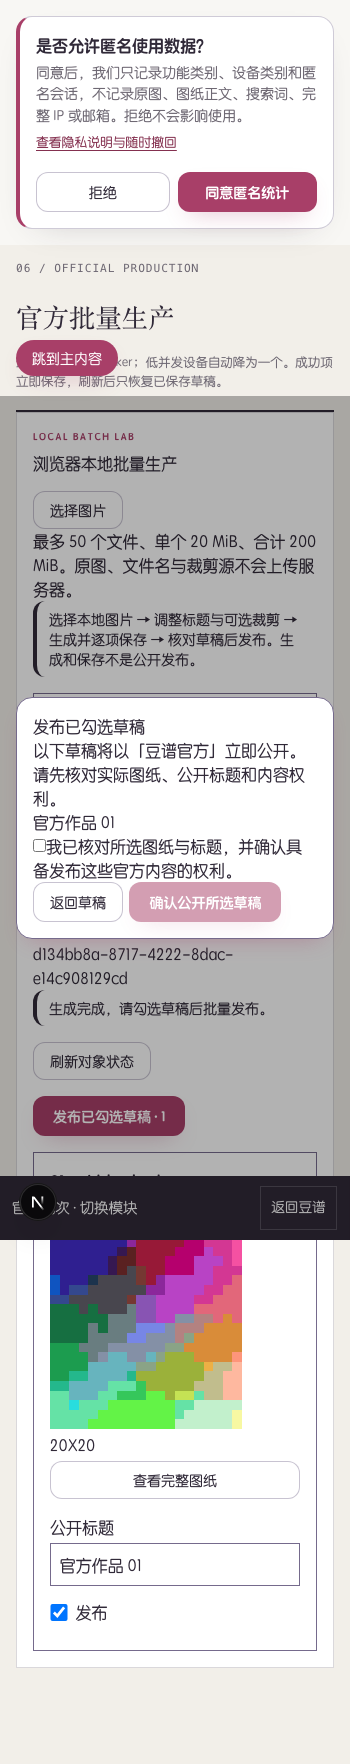
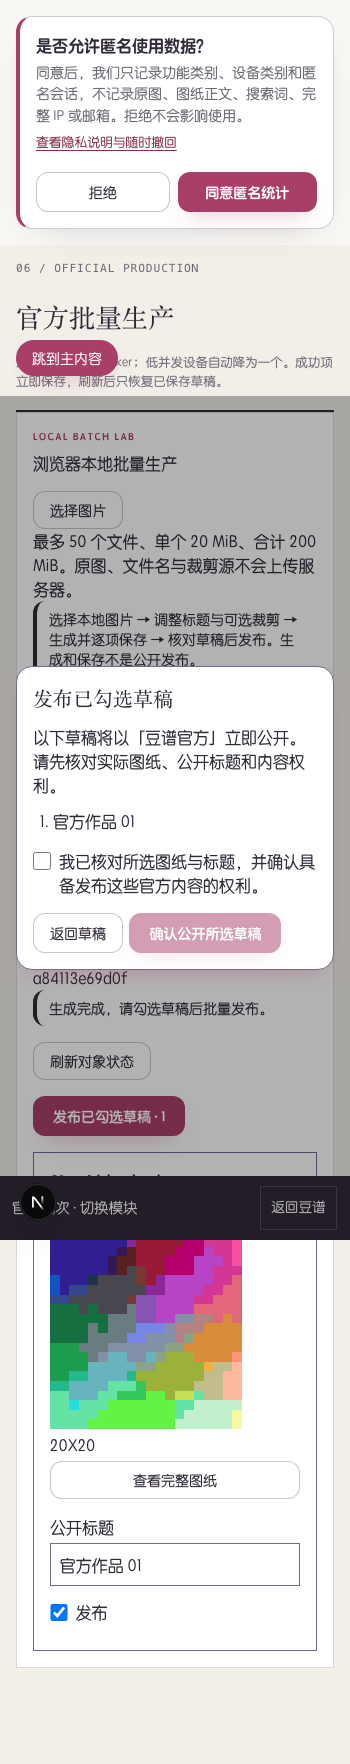
docs: close site UX verification with final local evidence

Changed region(s): [[0.0286, 0.3741, 0.9714, 0.5612]]

diff --git a/.scratch/site-ux/verification.md b/.scratch/site-ux/verification.md
@@ -1,5 +1,11 @@
 # 整站任务优化验证记录
 
+## 最终结果 — 2026-09-05
+
+阶段 01–08 的本地实施与验收全部完成，最终产品源代码 `44f973d`，详细最终门禁见 08O。185 文件 1460 项测试与覆盖率、静态检查、五轮性能、真实 PostgreSQL 16、生产构建和本地生产模式均通过；完整三浏览器连续三轮，每轮 218 passed / 22 原设计 skipped / 0 failed。两轴独立审查未解决均 0。
+
+下文按实际顺序保留早期失败、当时的进行中状态和修复证据，不将失败删掉或当作通过。当前完成结论以本节和 08O 为准。真机、生产环境及专业法律审核未被本地测试替代；docs/marketing/ 未读取或改动。
+
 ## 01 首页与导航 — 2026-09-05
 
 - RED→GREEN：缺少手机次级入口；最近记录/进度入口；显式 edit/stitch URL 恢复；损坏记录不误报空库。
@@ -214,3 +220,16 @@
 - `batch-viewport-green.log` 首次扩大三浏览器 9 passed、1 failed、2 skipped：尺寸均通过，但 WebKit 点击取消后的入口焦点断言失败。原生按钮探针对比确认 Chromium/Firefox 鼠标点击会聚焦按钮，本地 WebKit 变为 body；仅发布入口同步 `focus()` 后再打开 Modal，使既有焦点恢复捕获正确入口。
 - `batch-viewport-final.log` 完整 15 文件三浏览器：10 passed、2 原设计重复视觉 skipped，1.1 分钟。新 50 项用例验证首尾可滚动、上下 16px 边界、确认默认未勾、取消后 50 项选择与入口焦点保留、0 发布请求、1440px 宽度约束及再次打开不继承确认。旧丢响应/暂停/取消/历史恢复与五宽度视觉同时通过；无 force、失败重试或阈值放宽。
 - Standards 与 Spec 对尺寸/滚动及补充 focus 行分别独立复核，均 0 未解决。目视修复后的 350px 发布确认；最终稳定运行另外保留 50 项短视口截图。再次冻结源代码并运行全部最终门禁，不以此前候选代替。
+
+## 08O 最终源代码验收（44f973d）— 2026-09-05
+
+- 本节日志位于本地 `/tmp/doupu-siteux-closure-` 前缀；产品源代码冻结于 `44f973d`，之后仅更新证据文档与测试截图。以下门禁全部结束且通过，Completion 已标记 complete。
+- `lint.log`、`typecheck.log` 通过；`build.log` 的 Next.js 16.3.1 Docker 生产构建通过，最终镜像 `doupu-app:siteux-closure`，标识 `sha256:fc2bc1ba7a3ff0be8fa4f74330d0aa2ae04779ac5f25c35e772275d20064e1e1`；`argon2.log` 镜像内原生 hash/verify 通过。
+- `pg-revision.log` 修订/配额合约、`pg-governance.log` 12 项真实 PostgreSQL 16.15 并发/治理合约通过；`image-preflight.log` 在全新本地空库 `siteux_image_closure` 验证最终镜像迁移/v3 检查/旧协议只读拒绝通过。
+- `production.log` 最终镜像的实际路由 CAS/配额/墓碑/分页/重试合约及 4 项 production-Chromium 全部通过，6.0 秒；CSP/RSC/Worker、管理员续期、单次令牌、HTTPS 同意和当天长期分析/五宽度分类图表均覆盖。测试账号已清理，临时应用容器已停止。
+- 真实 PostgreSQL 0004 带现存数据升级、无新业务数据时 down/重升、no-op/失败 DDL/锁超时及 14 条实际查询 EXPLAIN 的有效证据仍见 08I/08G；44f973d 仅批次客户端展示和焦点，不改数据库、迁移或查询。
+- `coverage.log`：185 文件、1460 项通过，13 项原设计跳过，295.04 秒；`src/lib` 语句 91.05%（5199/5710）、分支 82.87%（3175/3831）、函数 95.53%（813/851）、行 94.61%（4641/4905），全部达到门槛。`performance.log`：重型任务结束后连续五轮，每轮 4 文件 7 项通过。
+- `stable-e2e.log`：完整 Chromium/Firefox/WebKit 连续三轮，每轮 240 项中 218 passed、22 原设计 skipped、0 failed，分别 8.2 / 8.1 / 8.1 分钟。新增真实 50 项批次清单三浏览器每轮都运行，不靠跳过/force/失败重试或放宽阈值通过。总计 654 次通过、66 次按原设计跳过。
+- 最终截图包含 350/390/768/1280/1440px 既定场景；目视更新的发布确认及 `batch-maximum-350.png`，350×400 最大清单面板位于 16–384px 且首尾和确认操作可滚动到达。实际任务点击数与逐页控件目的见 task-controls.md，局部阶段的静态/PGlite/真实 PostgreSQL/浏览器证据明确分列。
+- 两名独立只读审查员对完整基线和后续增量分别复核，Standards 0 未解决、Spec 0 未解决；最后尺寸/滚动与 WebKit 入口焦点分别通过。详见 review-followups.md；没有已知未关闭发现，不作绝对无缺陷保证。
+- 仅本地原子提交。最终运行结束后本任务的临时应用/浏览器测试服务和仅使用 tmpfs 的 PostgreSQL 容器均已停止，日志、镜像、脚本和截图保留；没有用户数据删除、生产连接、真实邮件发送、push 或 deploy。专业法律审核、生产备份/迁移部署、真机和实际打印尺寸仍需独立执行。

diff --git a/.scratch/site-ux/issues/08-admin-final.md b/.scratch/site-ux/issues/08-admin-final.md
@@ -1,7 +1,7 @@
 # 08 后台任务化与最终验收
 
 Status: ready-for-agent
-Completion: in-progress
+Completion: complete
 Type: task
 
 ## 范围
@@ -27,3 +27,6 @@ Type: task
 - 08F 普通投稿/我的投稿未知响应已修，29 项单元与三浏览器实际提交后丢响应恢复通过。
 - 待实施：最终全量门禁、稳定三浏览器和双轴复审。Completion 保持 in-progress，不以阶段验证冒充最终交付。
 - 08G 最终双轴发现全部修正，两轴未解决均 0；详见 review-followups。全量覆盖率 185 文件通过；后台/恢复新增三浏览器与首页五宽度通过。Completion 仍等待最终稳定 E2E、性能与本地生产运行门禁。
+- 最终闭环（44f973d）：上述待实施项全部完成，详细过程及失败记录保留在 verification 08H–08O。裁剪长任务、inert 前入口焦点记录、50 项批次清单动态视口滚动及 WebKit 发布入口焦点均经先失败回归修正，未放宽性能、权限或隐私验收。
+- 最终门禁：lint/typecheck、185 文件 1460 项与覆盖率、五轮性能、真实 PostgreSQL 16.15 合约和升级/回滚演练、最终 Docker 生产构建/原生 Argon2/镜像预检/本地生产模式 4 项全部通过。三浏览器连续三轮完整 E2E 各 218 passed、22 原设计 skipped、0 failed；五宽度、短视口及最大 50 项清单截图已目视。Standards/Spec 未解决均 0。
+- 仅本地分阶段提交，未 push/deploy/访问生产，未触及 docs/marketing/。任务临时服务已关闭；法律、真机和生产上线前事项仍保持独立边界。之前 Comments 的进行中表述为阶段历史，不是当前状态。

diff --git a/.scratch/site-ux/spec.md b/.scratch/site-ux/spec.md
@@ -1,6 +1,7 @@
 # 豆谱整站 UI 与任务交互优化
 
 Status: accepted
+Completion: complete
 Baseline: 7a345e1
 Date: 2026-09-05
 
@@ -44,3 +45,10 @@ Date: 2026-09-05
 
 UI 验证 350/390/768/1280/1440 px；键盘焦点、触摸、实际可见视口/软键盘、安全区、底栏遮挡、reduced-motion、axe。核心任务记录实际点击数（说明是否包含文件选择器），逐页列出保留按钮为用户解决的问题。最后双轴审查并复验，交付无已知未解决发现；不作绝对无缺陷保证。
 
+## 完成记录 — 2026-09-05
+
+阶段 01–08 全部完成。最终产品源代码为 `44f973d`，之后仅追加验收文档和截图。完整证据见 [verification.md](verification.md) 的 08O；逐页操作与实际点击数见 [task-controls.md](task-controls.md)，独立 Standards/Spec 审查和所有发现的闭环见 [review-followups.md](review-followups.md)。
+
+最终 lint/typecheck、185 文件 1460 项单元/组件/PGlite 测试与覆盖率、连续五轮性能、真实 PostgreSQL 16 合约与迁移演练、Docker 生产构建及本地生产模式验证全部通过；三浏览器完整 E2E 连续三轮，每轮 218 项通过、22 项原设计跳过、0 失败。新增最大 50 项批次确认短视口、裁剪和发布入口焦点的失败回归已修复并纳入完整门禁。两轴未解决发现均为 0。
+
+本地原子提交，无 push/deploy/生产访问，docs/marketing/ 未读取、修改或提交。法律审核、生产备份/迁移部署及真机验证仍是明确的上线前独立事项，不包含在本次完成声明中。
